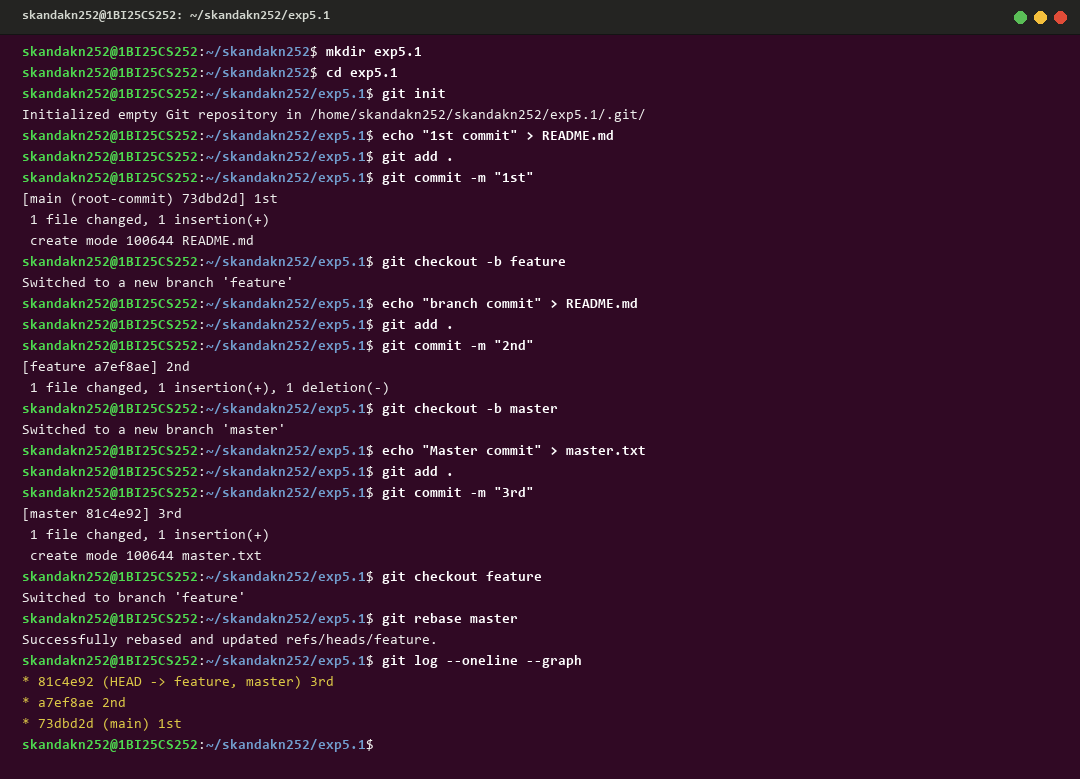
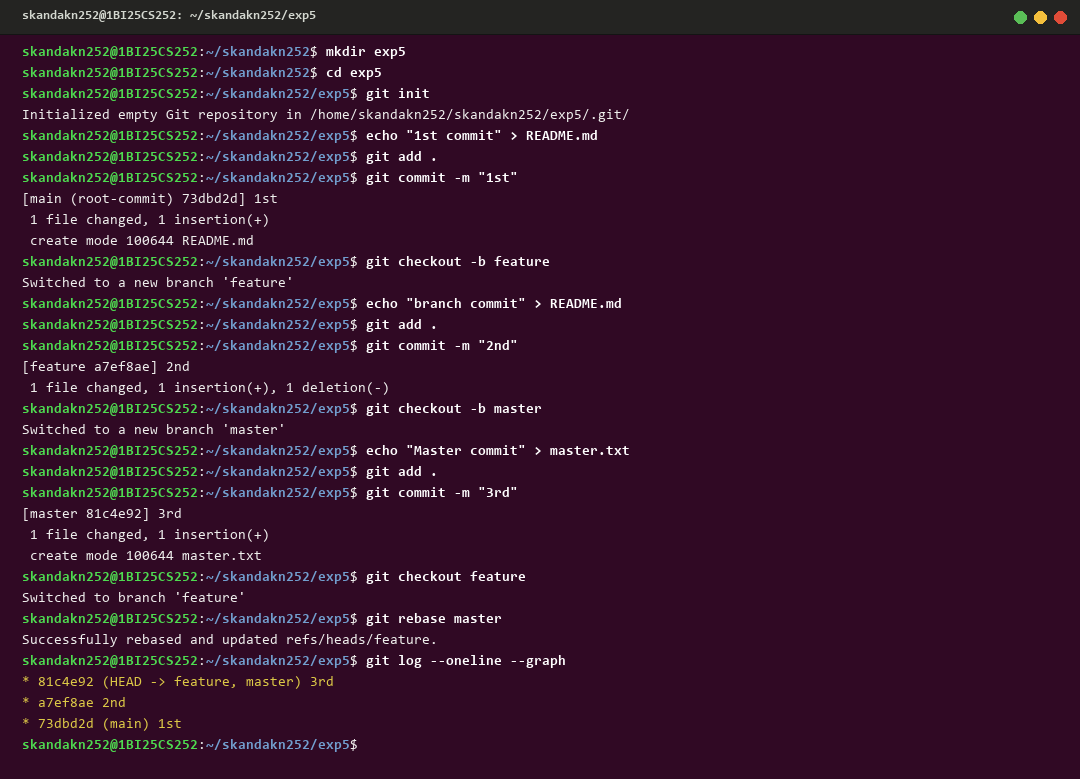
fix(exp5): standardize experiment directory name to mkdir exp5 across screenshot and docs

diff --git a/README.md b/README.md
@@ -23,7 +23,7 @@
 | **2** | Creating and Managing Branches | `exp2/` | [exp2.png](screenshots/exp2.png) |
 | **3** | Stashing Changes | `exp3/` | [exp3.png](screenshots/exp3.png) |
 | **4** | Collaboration & Remote Repositories (Cloning) | `exp4/` | [exp4.png](screenshots/exp4.png) |
-| **5** | Fetching and Rebasing | `exp5.1/` | [exp5.png](screenshots/exp5.png) |
+| **5** | Fetching and Rebasing | `exp5/` | [exp5.png](screenshots/exp5.png) |
 | **6** | Collaboration & Merging with Custom Commit Messages | `exp6/` | [exp6.png](screenshots/exp6.png) |
 | **7** | Git Tags and Releases | `exp7/` | [exp7.png](screenshots/exp7.png) |
 
@@ -296,7 +296,7 @@ Implement branch rebasing by committing changes on a feature branch, making inde
 Rebasing in Git rewrites commit history by moving a sequence of commits to a new base commit. While a standard merge creates a new merge commit connecting two diverging histories, `git rebase` replays feature branch commits one by one on top of the target base branch, maintaining a clean, linear project history.
 
 ### **Step-by-Step Procedure:**
-1. Create and enter workspace: `mkdir exp5.1 && cd exp5.1 && git init`
+1. Create and enter workspace: `mkdir exp5 && cd exp5 && git init`
 2. Make initial commit on main:
    - `echo "1st commit" > README.md`
    - `git add . && git commit -m "1st"`
@@ -315,36 +315,36 @@ Rebasing in Git rewrites commit history by moving a sequence of commits to a new
 
 ### **Terminal Output:**
 ```text
-skandakn252@1BI25CS252:~/skandakn252$ mkdir exp5.1
-skandakn252@1BI25CS252:~/skandakn252$ cd exp5.1
-skandakn252@1BI25CS252:~/skandakn252/exp5.1$ git init
-Initialized empty Git repository in /home/skandakn252/skandakn252/exp5.1/.git/
-skandakn252@1BI25CS252:~/skandakn252/exp5.1$ echo "1st commit" > README.md
-skandakn252@1BI25CS252:~/skandakn252/exp5.1$ git add .
-skandakn252@1BI25CS252:~/skandakn252/exp5.1$ git commit -m "1st"
+skandakn252@1BI25CS252:~/skandakn252$ mkdir exp5
+skandakn252@1BI25CS252:~/skandakn252$ cd exp5
+skandakn252@1BI25CS252:~/skandakn252/exp5$ git init
+Initialized empty Git repository in /home/skandakn252/skandakn252/exp5/.git/
+skandakn252@1BI25CS252:~/skandakn252/exp5$ echo "1st commit" > README.md
+skandakn252@1BI25CS252:~/skandakn252/exp5$ git add .
+skandakn252@1BI25CS252:~/skandakn252/exp5$ git commit -m "1st"
 [main (root-commit) 73dbd2d] 1st
  1 file changed, 1 insertion(+)
  create mode 100644 README.md
-skandakn252@1BI25CS252:~/skandakn252/exp5.1$ git checkout -b feature
+skandakn252@1BI25CS252:~/skandakn252/exp5$ git checkout -b feature
 Switched to a new branch 'feature'
-skandakn252@1BI25CS252:~/skandakn252/exp5.1$ echo "branch commit" > README.md
-skandakn252@1BI25CS252:~/skandakn252/exp5.1$ git add .
-skandakn252@1BI25CS252:~/skandakn252/exp5.1$ git commit -m "2nd"
+skandakn252@1BI25CS252:~/skandakn252/exp5$ echo "branch commit" > README.md
+skandakn252@1BI25CS252:~/skandakn252/exp5$ git add .
+skandakn252@1BI25CS252:~/skandakn252/exp5$ git commit -m "2nd"
 [feature a7ef8ae] 2nd
  1 file changed, 1 insertion(+), 1 deletion(-)
-skandakn252@1BI25CS252:~/skandakn252/exp5.1$ git checkout -b master
+skandakn252@1BI25CS252:~/skandakn252/exp5$ git checkout -b master
 Switched to a new branch 'master'
-skandakn252@1BI25CS252:~/skandakn252/exp5.1$ echo "Master commit" > master.txt
-skandakn252@1BI25CS252:~/skandakn252/exp5.1$ git add .
-skandakn252@1BI25CS252:~/skandakn252/exp5.1$ git commit -m "3rd"
+skandakn252@1BI25CS252:~/skandakn252/exp5$ echo "Master commit" > master.txt
+skandakn252@1BI25CS252:~/skandakn252/exp5$ git add .
+skandakn252@1BI25CS252:~/skandakn252/exp5$ git commit -m "3rd"
 [master 81c4e92] 3rd
  1 file changed, 1 insertion(+)
  create mode 100644 master.txt
-skandakn252@1BI25CS252:~/skandakn252/exp5.1$ git checkout feature
+skandakn252@1BI25CS252:~/skandakn252/exp5$ git checkout feature
 Switched to branch 'feature'
-skandakn252@1BI25CS252:~/skandakn252/exp5.1$ git rebase master
+skandakn252@1BI25CS252:~/skandakn252/exp5$ git rebase master
 Successfully rebased and updated refs/heads/feature.
-skandakn252@1BI25CS252:~/skandakn252/exp5.1$ git log --oneline --graph
+skandakn252@1BI25CS252:~/skandakn252/exp5$ git log --oneline --graph
 * 81c4e92 (HEAD -> feature, master) 3rd
 * a7ef8ae 2nd
 * 73dbd2d (main) 1st
